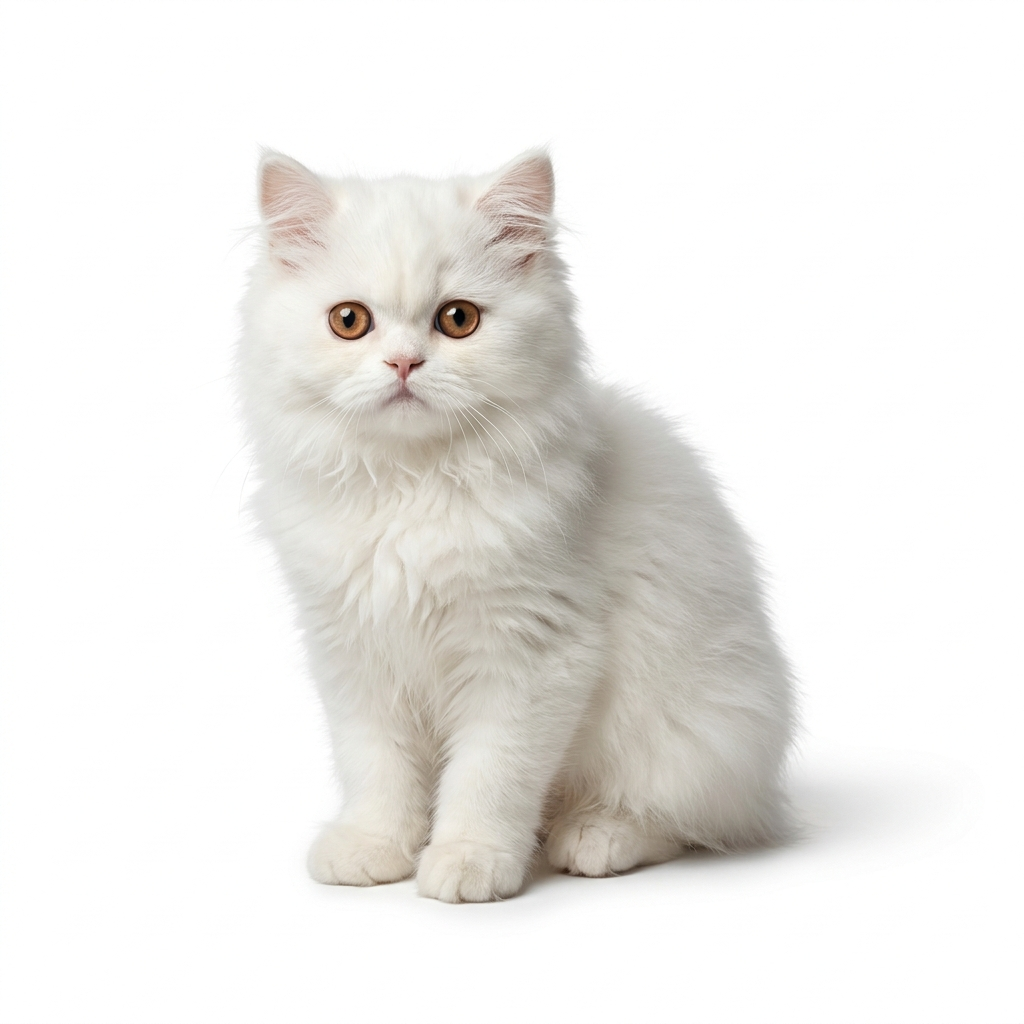
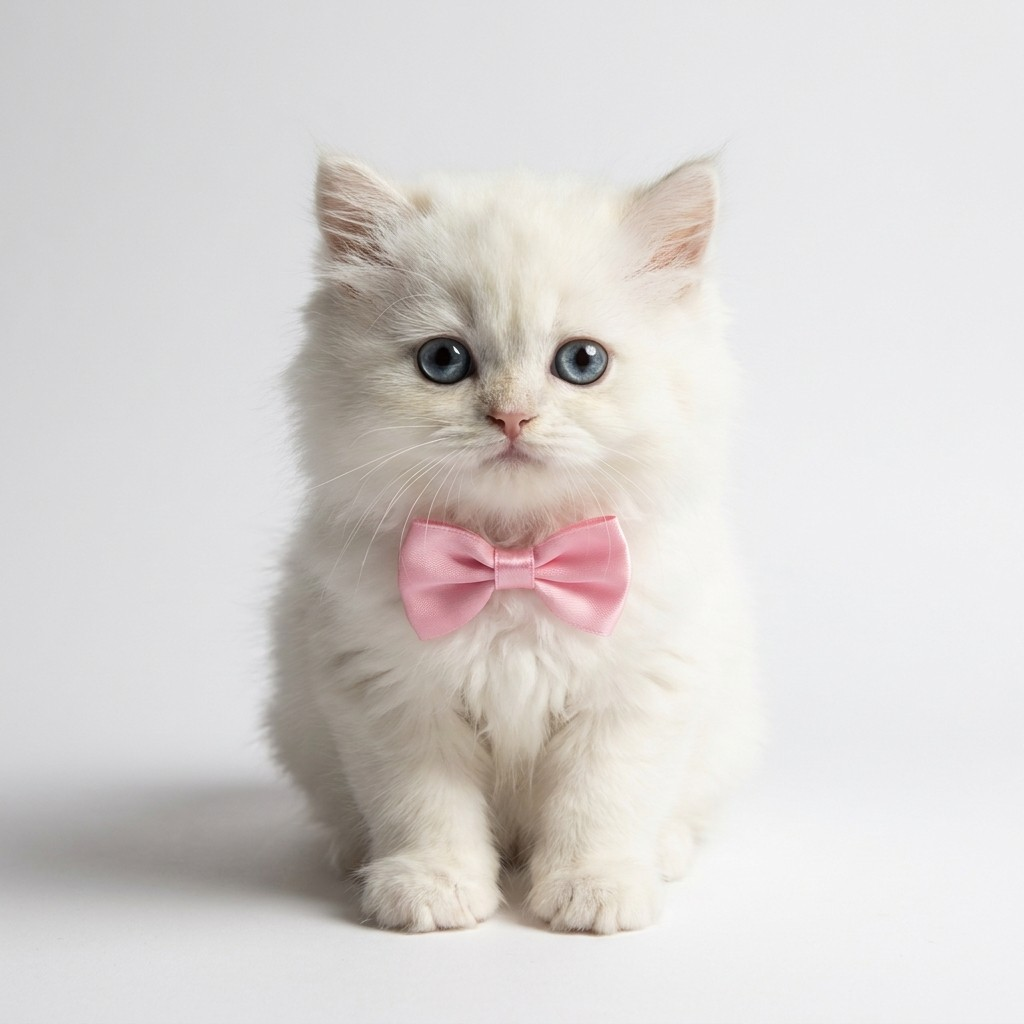
Gift box: all 8 Flow gifts (K with bow, N, J, T), music off for library track, gifts on light cards
Claude-Session: https://claude.ai/code/session_01UQ3zLvyDgq7HGCR3QHwbuU

diff --git a/shorts/gift-box/scene.html b/shorts/gift-box/scene.html
@@ -14,11 +14,11 @@ canvas { display: block; }
 // Hediye görselleri: gifts/ altında. Flow görselleri gelince GIFTS[i].img dosya adını değiştirmek yeterli.
 const ctx = document.getElementById('c').getContext('2d');
 const BOX_IMG = 'box_blue.jpg', ACCENT = '#1f3fa8';   // kutu rengine uyan yazı rengi
-const GIFTS = [
-  { letter: 'A', img: 'gifts/tw_1f4f1.svg' }, { letter: 'S', img: 'gifts/tw_1f697.svg' },
-  { letter: 'M', img: 'gifts/tw_1f451.svg' }, { letter: 'K', img: 'gifts/tw_1f431.svg' },
-  { letter: 'R', img: 'gifts/tw_1f48d.svg' }, { letter: 'N', img: 'gifts/tw_1f382.svg' },
-  { letter: 'J', img: 'gifts/tw_1f3f0.svg' }, { letter: 'T', img: 'gifts/tw_1f490.svg' },
+const GIFTS = [   // Flow ürün fotoğrafları (beyaz/açık gri zemin); harf = dosya adı
+  { letter: 'A', img: 'gifts/A.jpg' }, { letter: 'S', img: 'gifts/S.jpg' },
+  { letter: 'M', img: 'gifts/M.jpg' }, { letter: 'K', img: 'gifts/K.jpg' },
+  { letter: 'R', img: 'gifts/R.jpg' }, { letter: 'N', img: 'gifts/N.jpg' },
+  { letter: 'J', img: 'gifts/J.jpg' }, { letter: 'T', img: 'gifts/T.jpg' },
 ];
 const load = src => new Promise((ok, fail) => { const im = new Image(); im.onload = () => ok(im); im.onerror = () => fail(new Error(src)); im.src = src; });
 let BOX;
@@ -62,10 +62,11 @@ window.renderAt = (t) => {
     GIFTS.forEach((g, i) => {
       const [x, y] = pos(i), cw = 470, ch = 270;
       ctx.save(); ctx.translate(x, y);
-      ctx.fillStyle = '#f6f7fb'; ctx.strokeStyle = '#e1e4ef'; ctx.lineWidth = 3;
+      // kart zemini fotoğrafların açık gri zeminiyle aynı; fotoğraf 'multiply' ile çizilir, kenar dikişi görünmez
+      ctx.fillStyle = '#f4f4f6'; ctx.strokeStyle = '#e3e5ec'; ctx.lineWidth = 3;
       ctx.beginPath(); ctx.roundRect(-cw / 2, -ch / 2, cw, ch, 22); ctx.fill(); ctx.stroke();
-      glow(ctx, 0, 0, 10, 150, 'rgba(255,210,110,1)', 0.5 * k);
-      const s = 230 * (0.85 + 0.15 * k); ctx.drawImage(g.im, -s / 2, -s / 2, s, s);
+      ctx.save(); ctx.clip(); ctx.globalCompositeOperation = 'multiply';
+      const s = 300 * (0.92 + 0.08 * k); ctx.drawImage(g.im, -s / 2, -s / 2 + 8, s, s); ctx.restore();
       ctx.font = 'bold 56px "DejaVu Serif", serif'; ctx.textAlign = 'center'; ctx.textBaseline = 'middle';
       ctx.lineWidth = 8; ctx.strokeStyle = '#ffffff'; ctx.strokeText(g.letter, -cw / 2 + 48, -ch / 2 + 46);
       ctx.fillStyle = ACCENT; ctx.fillText(g.letter, -cw / 2 + 48, -ch / 2 + 46);

diff --git a/tools/audio.py b/tools/audio.py
@@ -117,7 +117,8 @@ def main(cue_path, out):
     cue = json.load(open(cue_path))
     dur = cue["duration"]
     mood = cue.get("mood", "dark")
-    music = hype(dur, cue.get("bpm", 120), cue.get("drop")) if mood == "hype" else pad(dur, mood)
+    if mood == "none": music = np.zeros(int(dur * SR))   # müzik yükleme sırasında YouTube ses kitaplığından eklenir
+    else: music = hype(dur, cue.get("bpm", 120), cue.get("drop")) if mood == "hype" else pad(dur, mood)
     sfx = np.zeros_like(music)
     duck = np.ones_like(music)
     for e in cue["events"]:
